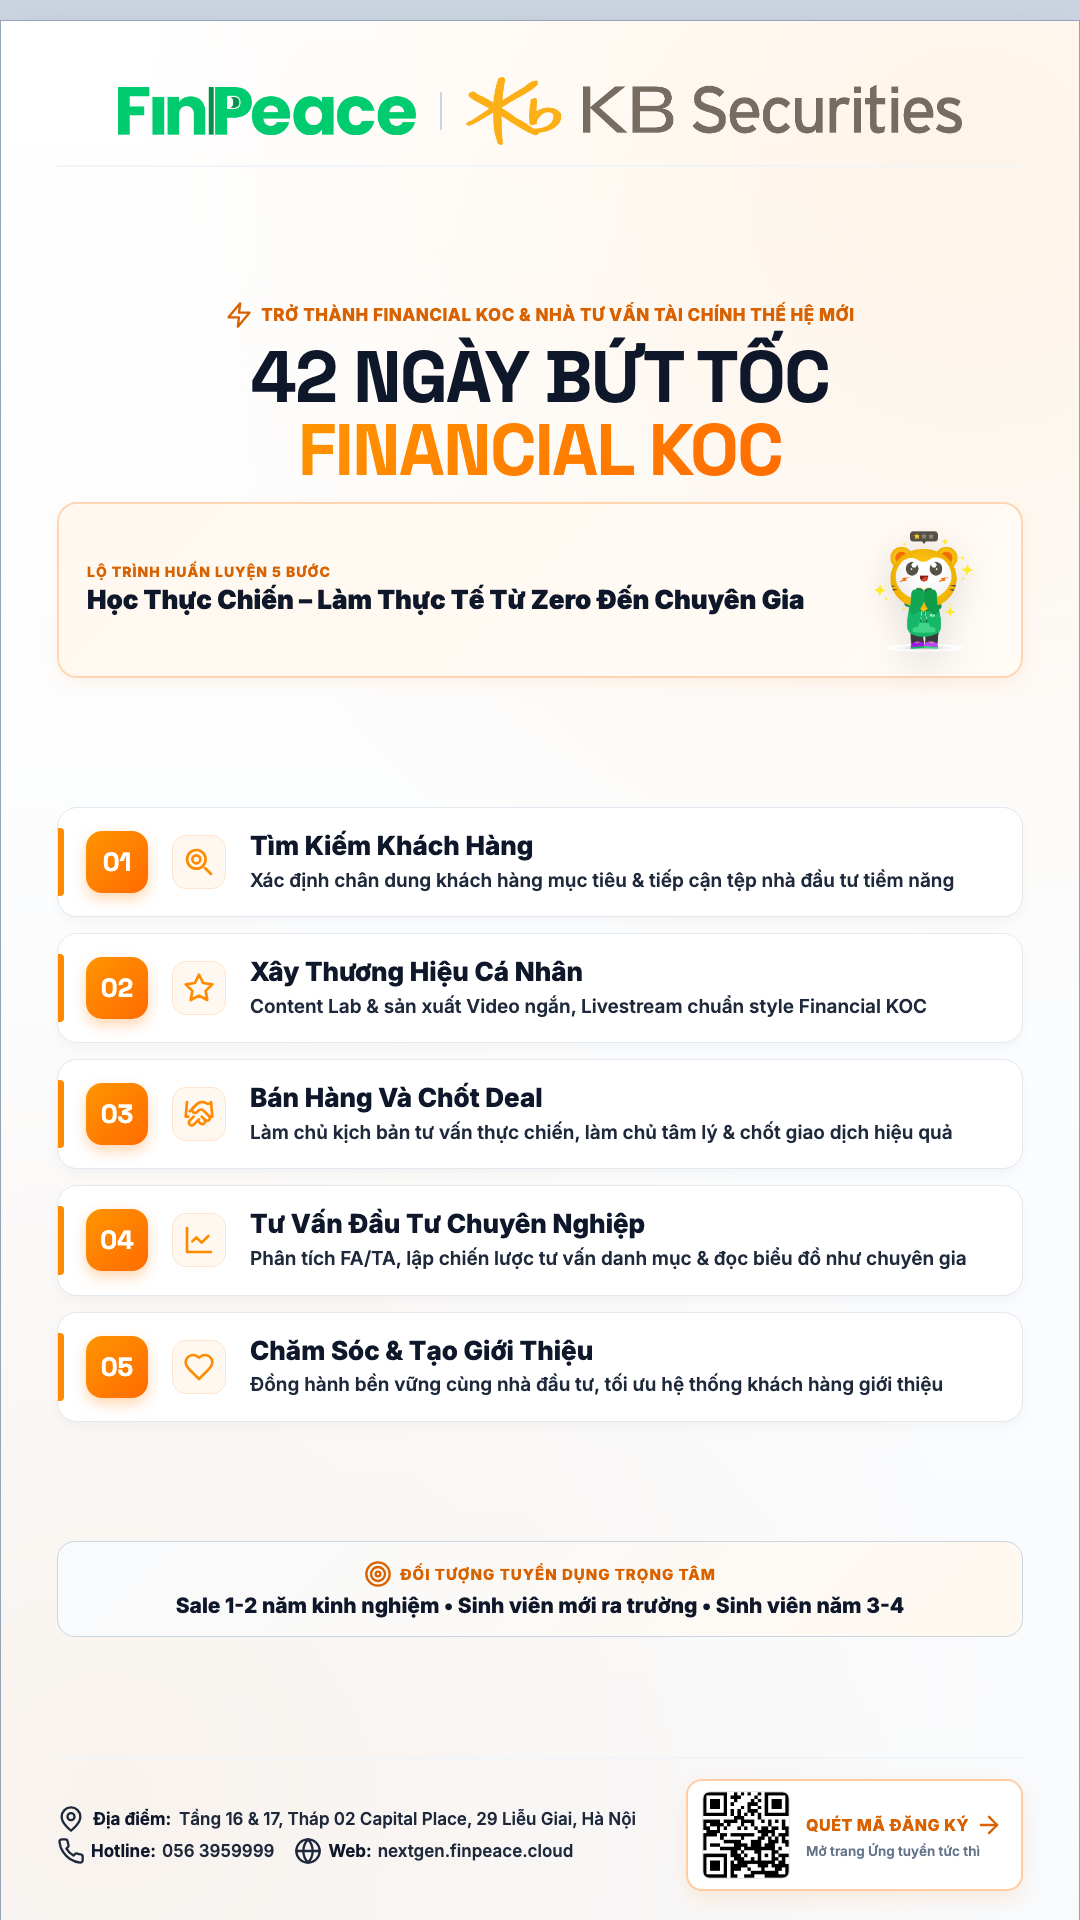
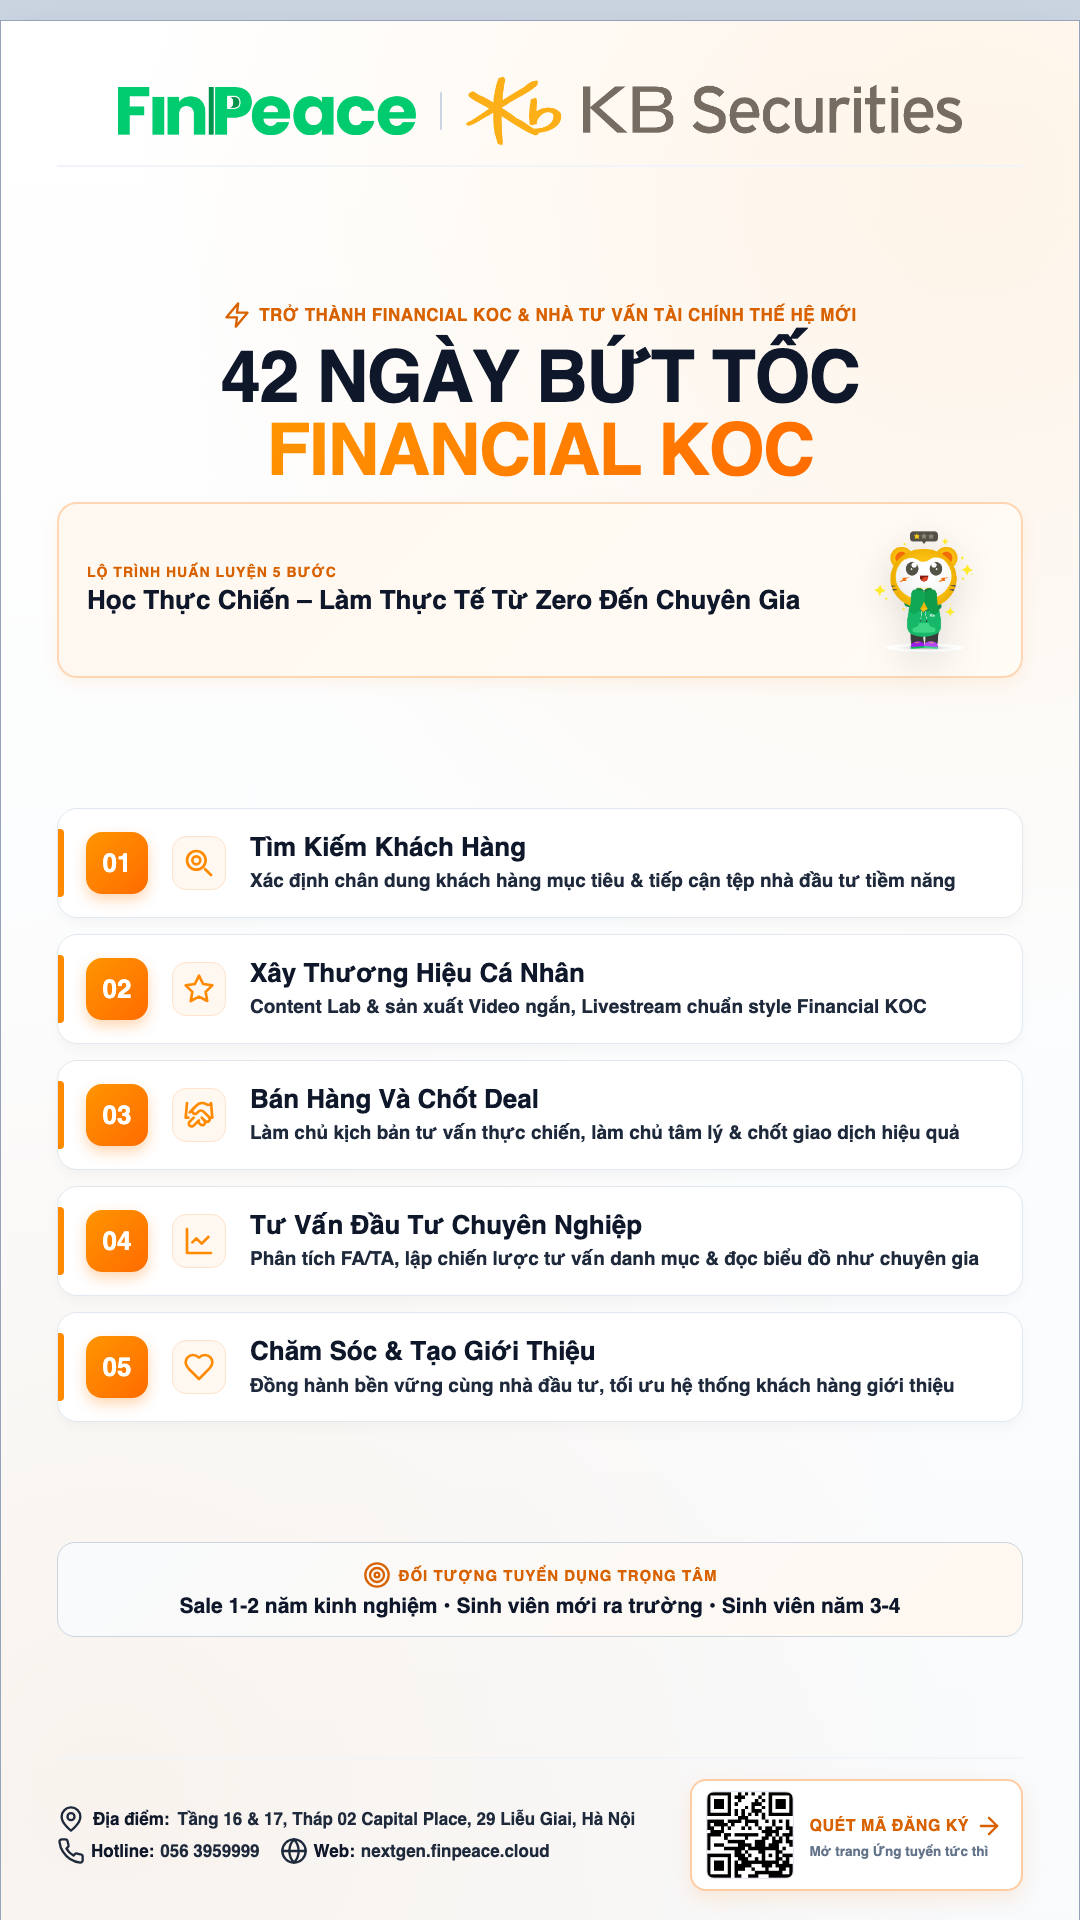
Update program branding name to KBSV NEXTGEN 2026 across all files

diff --git a/index.html b/index.html
@@ -3,11 +3,11 @@
 <head>
     <meta charset="UTF-8">
     <meta name="viewport" content="width=device-width, initial-scale=1.0">
-    <title>NextGen 2026 – Tuyển dụng Chuyên viên Tư vấn Đầu tư Thế hệ Mới</title>
-    <meta name="description" content="NextGen 2026 – Chương trình thực tập sinh kết hợp đào tạo chuyên môn và thực chiến 42 ngày giúp cá nhân đam mê Sale hoặc yêu thích làm việc trong các lĩnh vực Kinh tế – Tài chính thành Financial KOC chuyên nghiệp, sẵn sàng cho sự nghiệp tư vấn môi giới đầu tư chứng khoán. Đăng ký ngay!">
-    <meta name="keywords" content="NextGen 2026, KBSV, FinPeace, tuyển dụng, chứng khoán, Financial KOC, sale, sinh viên, đào tạo, KB Securities, thực tập">
-    <meta property="og:title" content="NextGen 2026 – Thế hệ Tư vấn - Môi giới Không Giới Hạn">
-    <meta property="og:description" content="NextGen 2026 – Chương trình thực tập sinh kết hợp đào tạo chuyên môn và thực chiến 42 ngày giúp cá nhân đam mê Sale hoặc yêu thích làm việc trong các lĩnh vực Kinh tế – Tài chính thành Financial KOC chuyên nghiệp, sẵn sàng cho sự nghiệp tư vấn môi giới đầu tư chứng khoán.">
+    <title>KBSV NextGen 2026 – Tuyển dụng Chuyên viên Tư vấn Đầu tư Thế hệ Mới</title>
+    <meta name="description" content="KBSV NextGen 2026 – Chương trình thực tập sinh kết hợp đào tạo chuyên môn và thực chiến 42 ngày giúp cá nhân đam mê Sale hoặc yêu thích làm việc trong các lĩnh vực Kinh tế – Tài chính thành Financial KOC chuyên nghiệp, sẵn sàng cho sự nghiệp tư vấn môi giới đầu tư chứng khoán. Đăng ký ngay!">
+    <meta name="keywords" content="KBSV NextGen 2026, KBSV, FinPeace, tuyển dụng, chứng khoán, Financial KOC, sale, sinh viên, đào tạo, KB Securities, thực tập">
+    <meta property="og:title" content="KBSV NextGen 2026 – Thế hệ Tư vấn - Môi giới Không Giới Hạn">
+    <meta property="og:description" content="KBSV NextGen 2026 – Chương trình thực tập sinh kết hợp đào tạo chuyên môn và thực chiến 42 ngày giúp cá nhân đam mê Sale hoặc yêu thích làm việc trong các lĩnh vực Kinh tế – Tài chính thành Financial KOC chuyên nghiệp, sẵn sàng cho sự nghiệp tư vấn môi giới đầu tư chứng khoán.">
     <meta property="og:type" content="website">
     <meta property="og:image" content="https://nextgen.finpeace.cloud/assets/images/og-share.png?v=3">
     <meta property="og:image:width" content="1200">
@@ -74,7 +74,7 @@
                 <li><a href="#apply" class="nav-link nav-cta">Đăng ký ngay</a></li>
                 <li class="menu-mobile-footer">
                     <div class="mobile-menu-contact">
-                        <p class="mobile-contact-title">NextGen 2026</p>
+                        <p class="mobile-contact-title">KBSV NextGen 2026</p>
                         <p class="mobile-contact-phone">Hotline: 056 3959999</p>
                         <p class="mobile-contact-address">Tầng 16 & 17, Capital Place, Số 29 Liễu Giai, Hà Nội</p>
                     </div>
@@ -103,8 +103,8 @@
                     Đang tuyển dụng – Season 1
                 </div>
                 <h1 class="hero-title">
-                    <span class="title-line title-accent hero-nextgen-text">NextGen</span>
-                    <span class="title-line">2026</span>
+                    <span class="title-line">KBSV</span>
+                    <span class="title-line title-accent hero-nextgen-text">NEXTGEN 2026</span>
                 </h1>
                 <p class="hero-tagline">Thế hệ Tư vấn - Môi giới <strong>Không Giới Hạn</strong></p>
                 <p class="hero-desc">Chương trình thực tập sinh kết hợp đào tạo chuyên môn và thực chiến <strong>42 ngày</strong> giúp cá nhân đam mê Sale & <strong>Kinh tế – Tài chính</strong> thành <strong>Financial KOC</strong> chuyên nghiệp, sẵn sàng cho sự nghiệp <span style="white-space: nowrap;"><strong>tư vấn môi giới chứng khoán.</strong></span></p>
@@ -181,7 +181,7 @@
             <div class="section-header reveal">
                 <span class="section-tag">Chương trình</span>
                 <h2 class="section-title">Từ đam mê →<br><span class="text-accent">Financial KOC</span> trong 42 ngày</h2>
-                <p class="section-subtitle">Tại NextGen 2026, bạn không chỉ học kiến thức chứng khoán – bạn sẽ trực tiếp sản xuất content, livestream tư vấn, và từng bước xây dựng cộng đồng nhà đầu tư của riêng mình.</p>
+                <p class="section-subtitle">Tại KBSV NextGen 2026, bạn không chỉ học kiến thức chứng khoán – bạn sẽ trực tiếp sản xuất content, livestream tư vấn, và từng bước xây dựng cộng đồng nhà đầu tư của riêng mình.</p>
             </div>
             <div class="about-grid">
                 <div class="about-card reveal">
@@ -809,7 +809,7 @@
         <div class="container">
             <div class="section-header reveal">
                 <span class="section-tag">Đăng ký</span>
-                <h2 class="section-title">Sẵn sàng cùng <span class="text-accent">NextGen 2026</span>?</h2>
+                <h2 class="section-title">Sẵn sàng cùng <span class="text-accent">KBSV NextGen 2026</span>?</h2>
                 <p class="section-subtitle">Điền thông tin bên dưới để ứng tuyển. Chúng tôi sẽ liên hệ trong 3 ngày làm việc.</p>
             </div>
             <div class="apply-wrapper">
@@ -862,7 +862,7 @@
                             </div>
                         </div>
                         <div class="form-group">
-                            <label for="motivation">Tại sao bạn muốn tham gia NextGen 2026? <span class="label-hint">(bài luận chia sẻ không quá 250 từ)</span></label>
+                            <label for="motivation">Tại sao bạn muốn tham gia KBSV NextGen 2026? <span class="label-hint">(bài luận chia sẻ không quá 250 từ)</span></label>
                             <textarea id="motivation" name="motivation" rows="3" placeholder="Chia sẻ lý do bạn muốn trở thành chuyên viên tư vấn đầu tư & Financial KOC thế hệ mới..."></textarea>
                         </div>
                         <button type="submit" class="btn btn-primary btn-lg btn-full" id="submitBtn">
@@ -874,7 +874,7 @@
                     <div class="form-success" id="formSuccess" style="display: none;">
                         <img src="assets/mascot/flexi-ok.png" alt="Đăng ký thành công" class="success-mascot">
                         <h3>Đăng ký thành công!</h3>
-                        <p>Cảm ơn bạn đã quan tâm đến NextGen 2026. Chúng tôi sẽ liên hệ bạn sớm nhất!</p>
+                        <p>Cảm ơn bạn đã quan tâm đến KBSV NextGen 2026. Chúng tôi sẽ liên hệ bạn sớm nhất!</p>
                     </div>
                 </div>
                 <div class="apply-sidebar reveal">
@@ -953,7 +953,7 @@
                 </div>
             </div>
             <div class="footer-bottom">
-                <p>&copy; 2026 NextGen 2026. All rights reserved.</p>
+                <p>&copy; 2026 KBSV NextGen 2026. All rights reserved.</p>
                 <p>Chương trình được tổ chức bởi Sở Giao dịch 3 – KBSV</p>
             </div>
         </div>

diff --git a/poster.html b/poster.html
@@ -2,7 +2,7 @@
 <html lang="vi">
 <head>
     <meta charset="UTF-8">
-    <title>NextGen 2026 – Event Poster 1200x1200px</title>
+    <title>KBSV NextGen 2026 – Event Poster 1200x1200px</title>
     <link rel="preconnect" href="https://fonts.googleapis.com">
     <link rel="preconnect" href="https://fonts.gstatic.com" crossorigin>
     <link href="https://fonts.googleapis.com/css2?family=Inter:wght@500;600;700;800;900&family=Space+Grotesk:wght@700;800&display=swap" rel="stylesheet">
@@ -362,7 +362,7 @@
                     TRỞ THÀNH FINANCIAL KOC & NHÀ TƯ VẤN TÀI CHÍNH THẾ HỆ MỚI
                 </div>
                 <h1 class="main-title">
-                    NextGen 2026<br>
+                    KBSV <span class="text-orange" style="font-size: 1.05em;">NEXTGEN 2026</span><br>
                     <span class="text-orange">FINANCIAL KOC</span>
                 </h1>
                 <div class="program-description">

diff --git a/mobile_post.html b/mobile_post.html
@@ -3,7 +3,7 @@
 <head>
     <meta charset="UTF-8">
     <meta name="viewport" content="width=device-width, initial-scale=1.0">
-    <title>NextGen 2026 – 42 Ngày Bứt Tốc (Mobile Post 1080x1920px)</title>
+    <title>KBSV NextGen 2026 – 42 Ngày Bứt Tốc (Mobile Post 1080x1920px)</title>
     <link rel="preconnect" href="https://fonts.googleapis.com">
     <link rel="preconnect" href="https://fonts.gstatic.com" crossorigin>
     <link href="https://fonts.googleapis.com/css2?family=Inter:wght@500;600;700;800;900&family=Space+Grotesk:wght@700;800&display=swap" rel="stylesheet">
